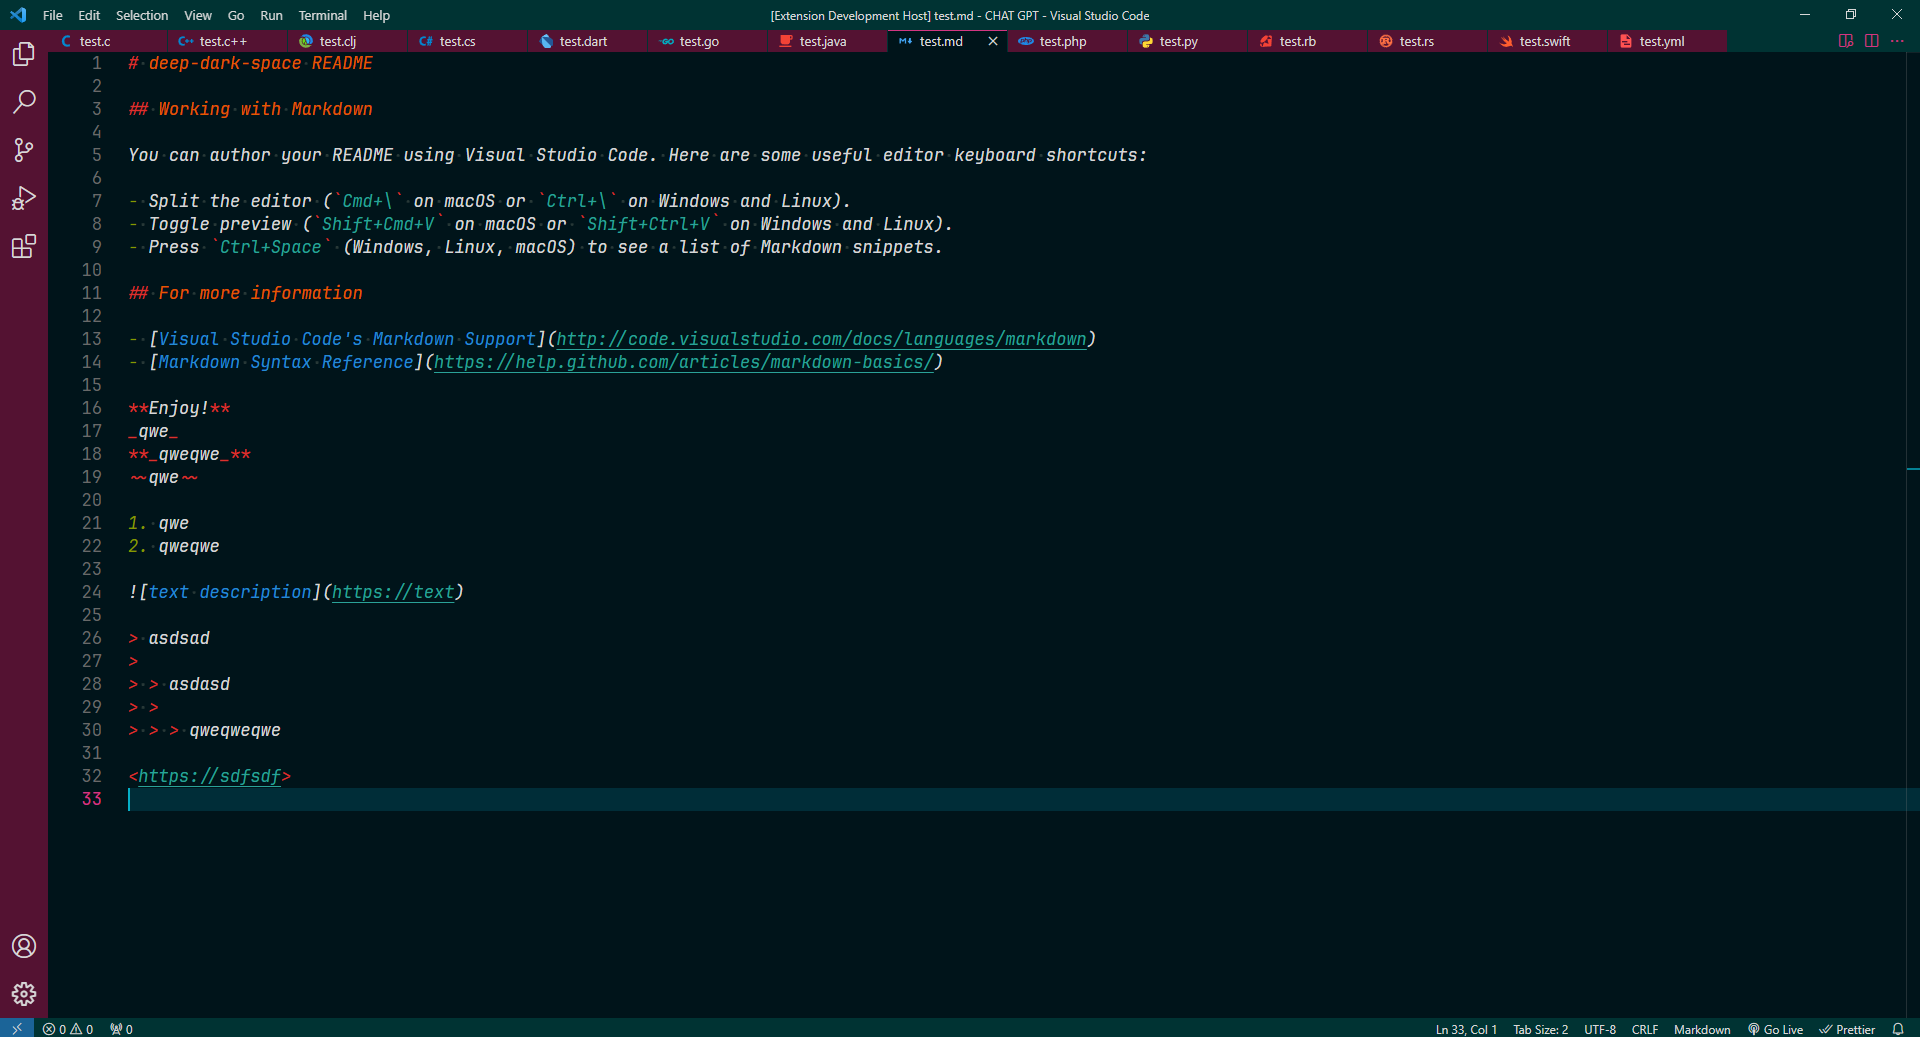
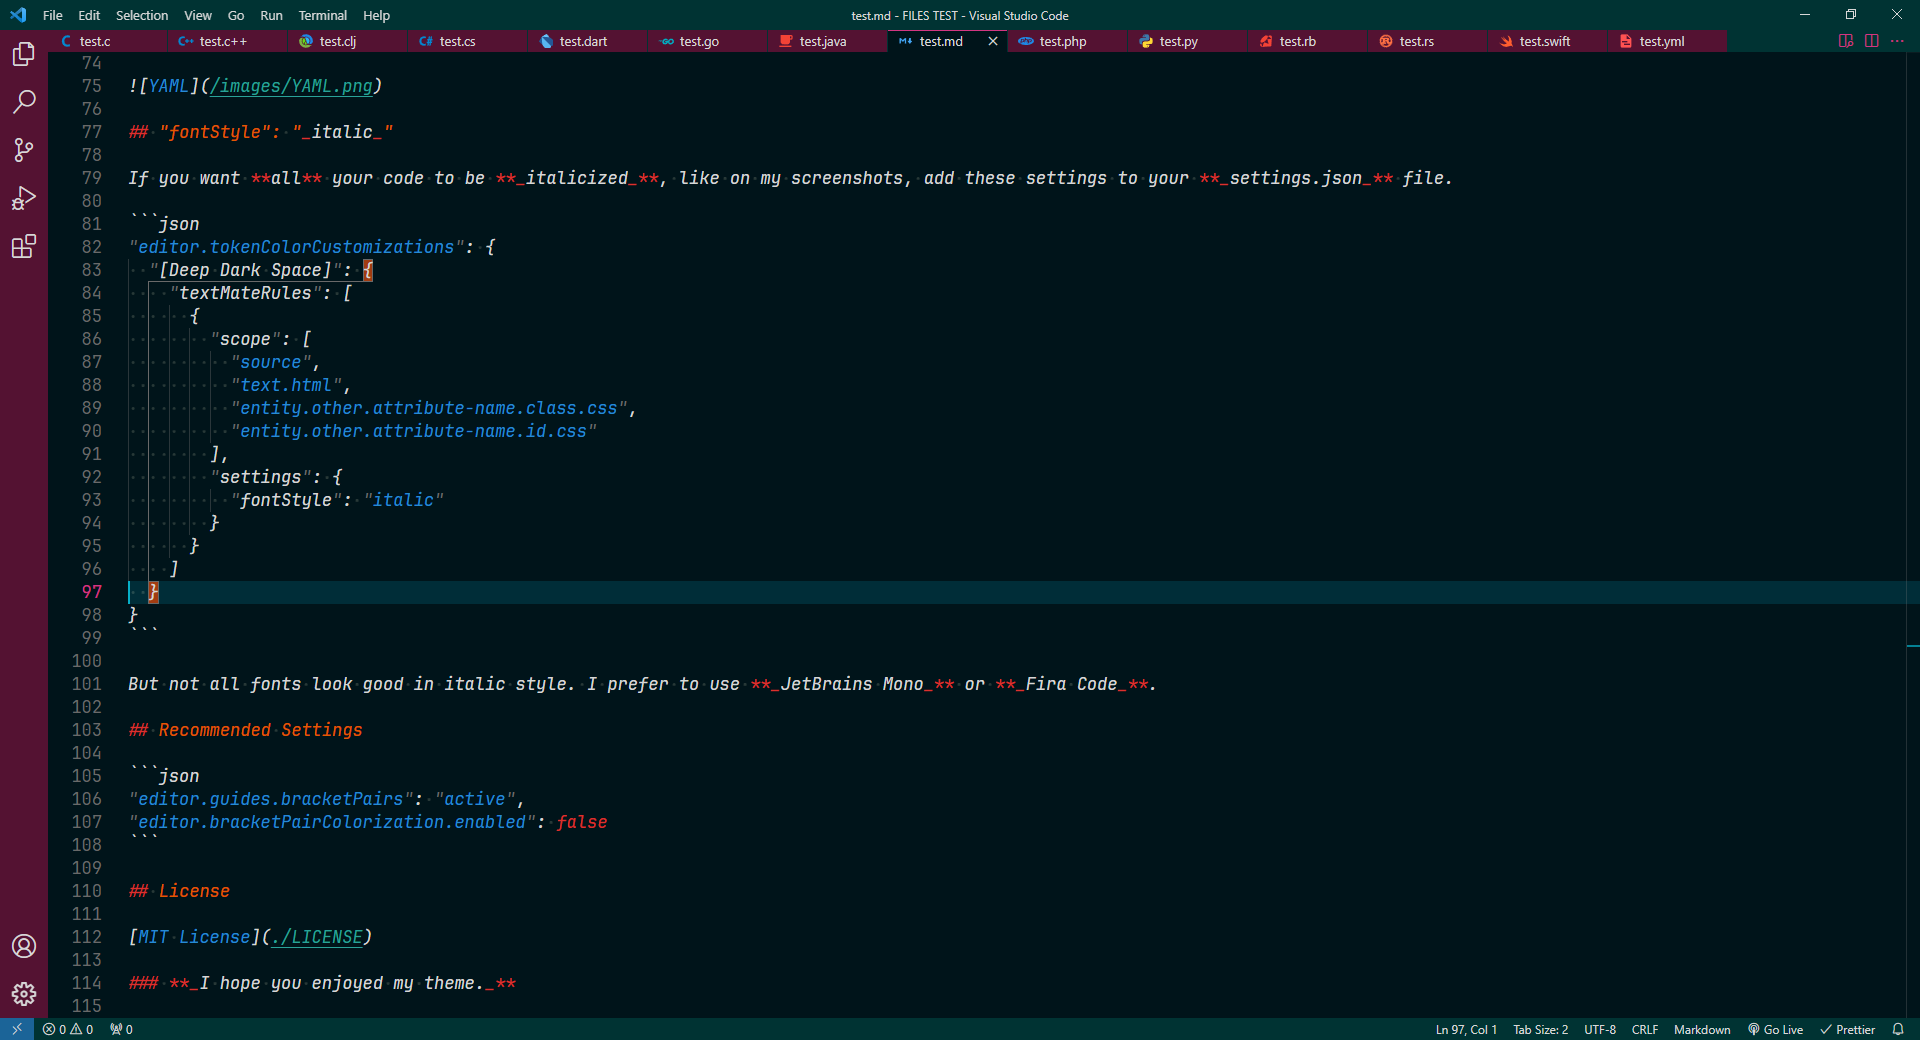
_

Changed region(s): [[0.0, 0.0309, 1.0, 1.0], [0.75, 0.9566, 1.0, 1.0], [0.4062, 0.0, 0.5938, 0.0309]]

diff --git a/README.md b/README.md
@@ -1,12 +1,18 @@
 # Deep Dark Space Theme
 
+## HTML
+
+![HTML](/images/HTML.png)
+
+## CSS
+
+![CSS](/images/CSS.png)
+
 ## JavaScript
 
+![JavaScript](/images/JS.png)
+
 ![JavaScript](/images/JS-1.png)
-
-![JavaScript](/images/JS-2.png)
-
-![JavaScript](/images/JS-3.png)
 
 ## TypeScript
 
@@ -68,9 +74,9 @@
 
 ![YAML](/images/YAML.png)
 
-## Font
+## "fontStyle": "_italic_"
 
-If you want all your code to be italicized, like on my screenshots, add these settings to your **_settings.json_** file.
+If you want **all** your code to be **_italicized_**, like on my screenshots, add these settings to your **_settings.json_** file.
 
 ```json
 "editor.tokenColorCustomizations": {
